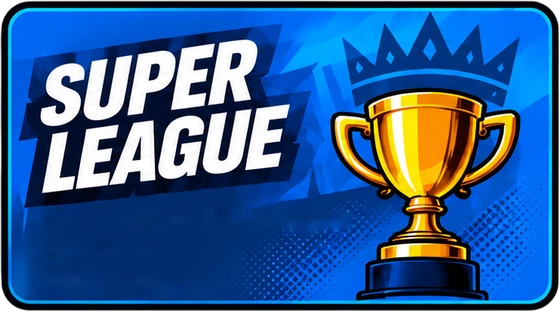
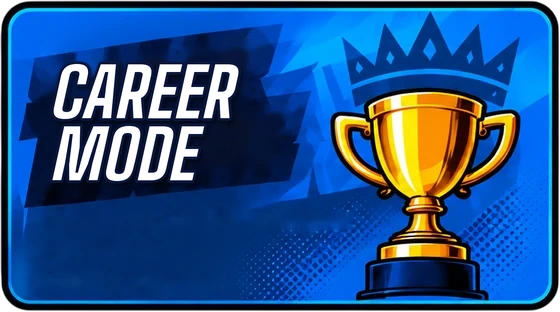
Home tile: Super League becomes Career Mode
The tile's lettering is repainted (CAREER MODE), its label follows, and Uncle Dev's two lines
that sent you to the Super League tile now say Career Mode. The Super League division is unchanged.

Claude-Session: https://claude.ai/code/session_01NK7tbrKg5PdA6fuyEUPXLd

Changed region(s): [[0.0607, 0.1154, 0.5161, 0.6346], [0.7286, 0.7212, 0.7589, 0.7788], [0.7893, 0.75, 0.8196, 0.7788]]

diff --git a/js/coach.js b/js/coach.js
@@ -108,11 +108,11 @@ export const DEV = {
     "YOU DID IT! You beat the Thunder Strikers, in their own house! Do you know how long people have waited to see that?",
     "But it was one match. They'll be back, stronger and angrier. And they will never forget your face.",
     "Build a squad, climb through the divisions and reach the Super League. That's where you meet them again. And that's where you beat them for good.",
-    "Tap Play, then Super League. Your career starts now, beta.",
+    "Tap Play, then Career Mode. Your career starts now, beta.",
   ],
   tutDone: [
     "What did I tell you? A natural!",
-    "Quick Game is for a single match. When you're ready for a whole career, come and find me in the Super League.",
+    "Quick Game is for a single match. When you're ready for a whole career, come and find me in Career Mode.",
   ],
   quickTeam: [
     "Pick your side, beta. Swipe through the clubs and check their ratings underneath.",

diff --git a/index.html b/index.html
@@ -128,7 +128,7 @@
       <div class="hubgrid">
         <button class="tile tile-quick" id="btnQuick" aria-label="Quick Match"><small id="quickSub">30 balls each
 vs a random team</small></button>
-        <button class="tile tile-league" id="btnLeague" aria-label="Super League"><small id="leagueSub"></small></button>
+        <button class="tile tile-league" id="btnLeague" aria-label="Career Mode"><small id="leagueSub"></small></button>
         <button class="tile tile-cup" id="btnCup" aria-label="Knockout Cup"><small id="cupSub"></small></button>
         <button class="tile tile-daily" id="btnDaily" aria-label="Daily Challenge"><small id="dailySub"></small></button>
       </div>
